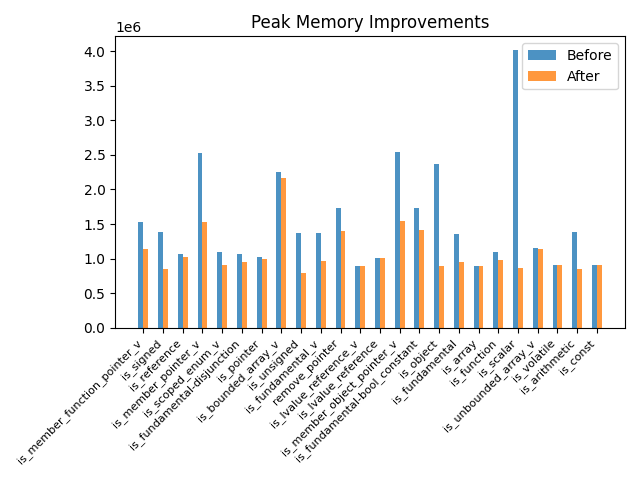
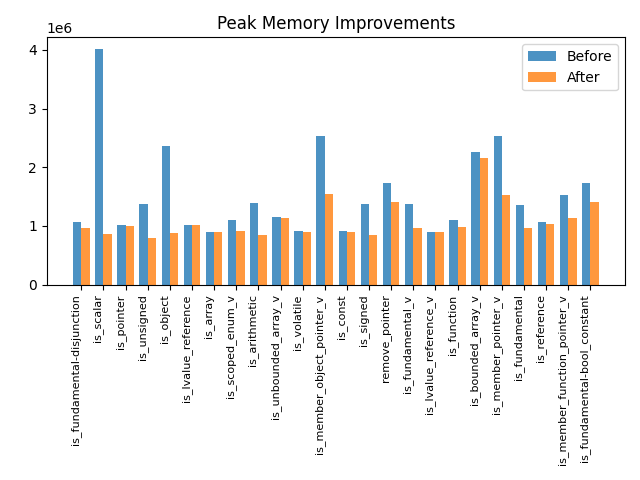
Some chart tweaks

diff --git a/scripts/gen-charts.py b/scripts/gen-charts.py
@@ -40,7 +40,7 @@ def plot_bar_chart(hash_map, attribute_before, attribute_after, title, output_fi
     before_values = [getattr(hash_map[key], attribute_before) for key in keys]
     after_values = [getattr(hash_map[key], attribute_after) for key in keys]
 
-    bar_width = 0.5
+    bar_width = 0.75
     spacing = 2
     index = range(0, int(spacing * len(keys)), int(spacing))
 
@@ -51,7 +51,7 @@ def plot_bar_chart(hash_map, attribute_before, attribute_after, title, output_fi
 
     ax.set_title(title)
     ax.set_xticks([i + bar_width / 2 for i in index])
-    ax.set_xticklabels(keys, rotation=45, ha='right')
+    ax.set_xticklabels(keys, rotation=90, ha='right')
     ax.tick_params(axis='x', which='major', labelsize=8)
     ax.legend()
 
